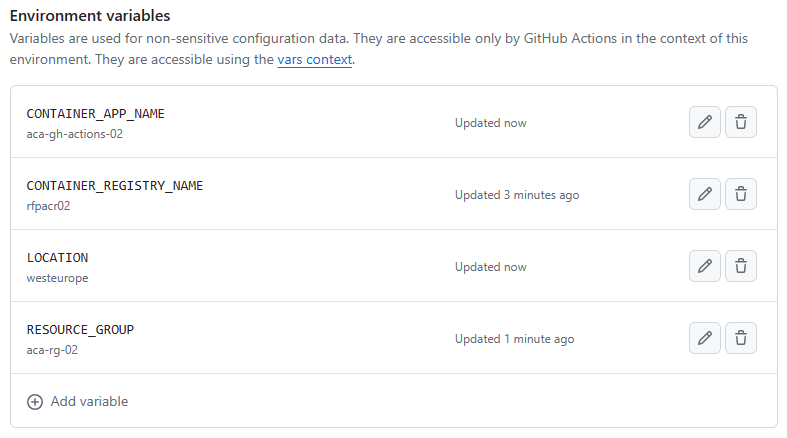
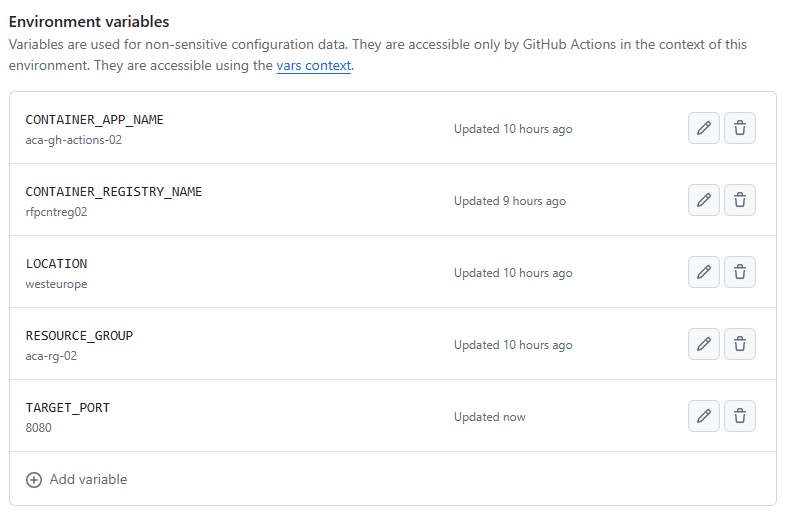
8.9th wave

diff --git a/README.md b/README.md
@@ -81,10 +81,13 @@ And create the following variables:
 - *LOCATION*: the Azure region where the resources will be deployed (e.g., westeurope)
 - *CONTAINER_REGISTRY_NAME*: the name of the Azure Container registry to be created/used to store container images (.e.g., rfpacr02)
 - *CONTAINER_APP_NAME*: the name of the container app to be deployed (e.g., aca-gh-actions-02)
+- *TARGET_PORT*: the port where the container app will be listening (e.g., 8080)
+
 
 Example:
 
 ![alt text](assets/vars.png)
+![alt text](image.png)
 
 **Commit and push everything...***
 
